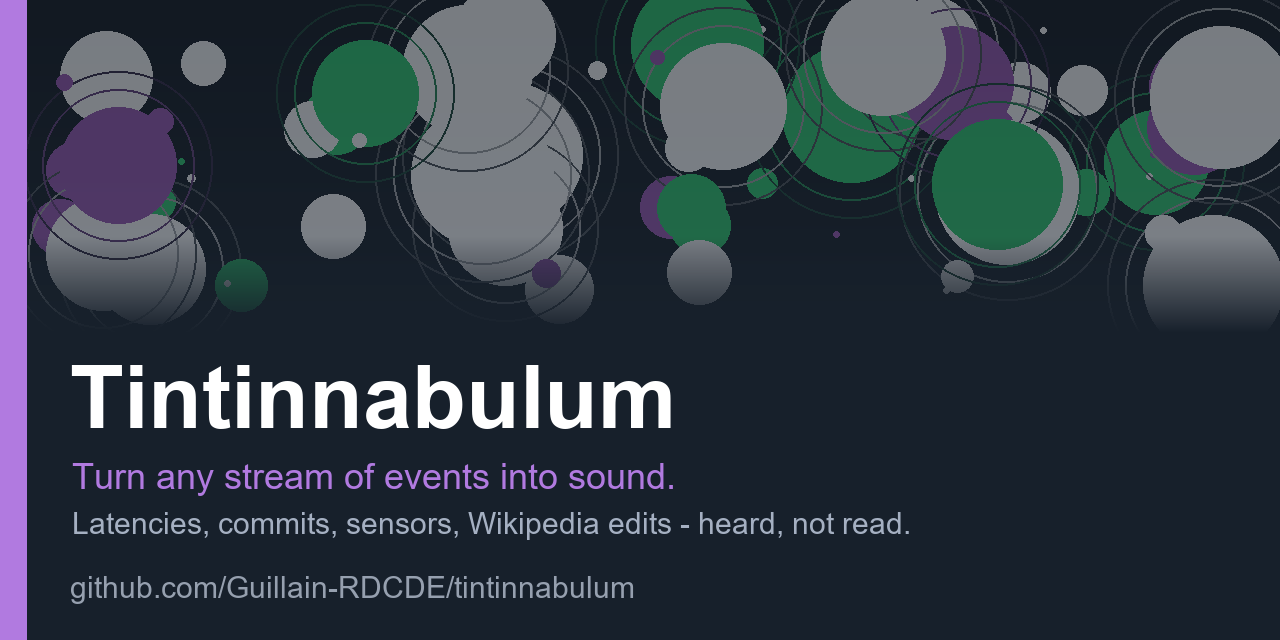
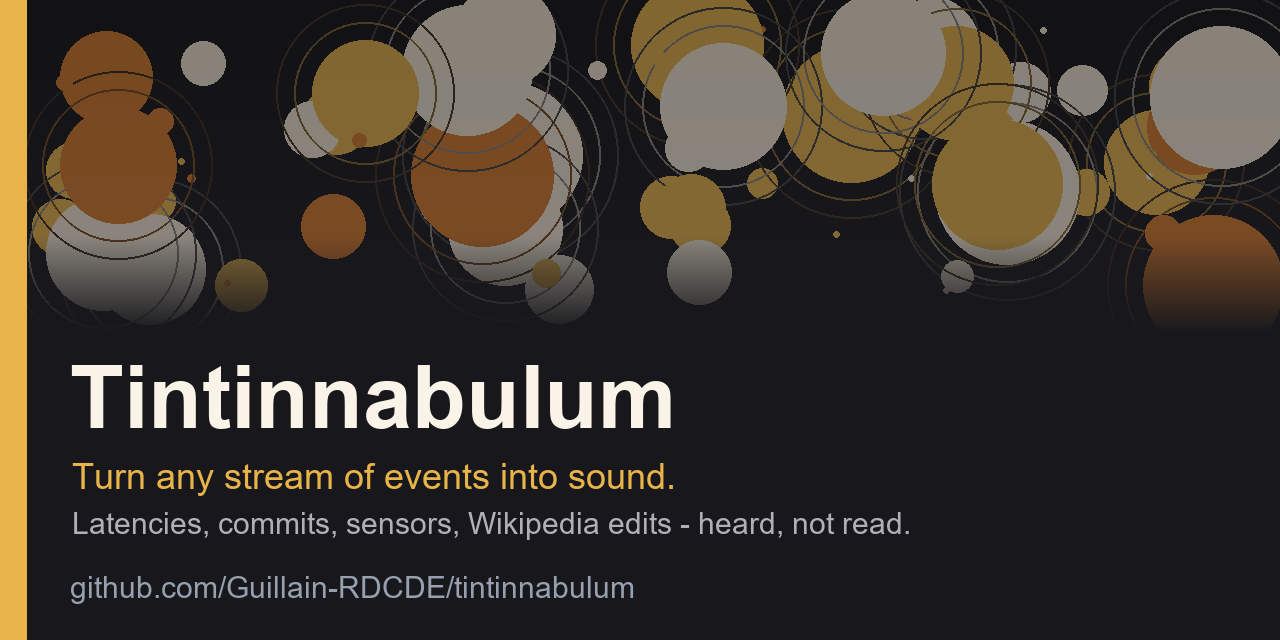
Correct the project name, restyle the preview, remove decorative emoji
- the sandbox header still read sonify, a leftover working name. Fixed
  there and in the server banner, the recorder filename prefix and the
  event typedef.
- social preview reworked: warm brass, copper and cream on neutral
  charcoal, replacing the violet and green. A brown ground was tried first
  and abandoned -- warm metals only read against a neutral grey.
- all documentation rewritten in a plain register with decorative emoji
  removed; section headings are now Getting started / Reference. The only
  remaining glyph is the selected-swatch checkmark, which is interface
  iconography rather than decoration.

diff --git a/src/audio/recorder-sink.js b/src/audio/recorder-sink.js
@@ -66,7 +66,8 @@ export class Recorder {
   async save(filename) {
     const blob = await this.stop();
     const ext = (this.mimeType.split('/')[1] || 'webm').split(';')[0];
-    const name = filename || `sonify-${new Date().toISOString().replace(/[:.]/g, '-')}.${ext}`;
+    const name =
+      filename || `tintinnabulum-${new Date().toISOString().replace(/[:.]/g, '-')}.${ext}`;
     const url = URL.createObjectURL(blob);
     const a = document.createElement('a');
     a.href = url;

diff --git a/src/core/event.js b/src/core/event.js
@@ -7,7 +7,7 @@
 let _auto = 0;
 
 /**
- * @typedef {Object} SonifyEvent
+ * @typedef {Object} SonificationEvent
  * @property {number}  magnitude  Absolute size of the event. Drives pitch and radius.
  * @property {-1|0|1}  polarity   Instrument selection: +1 bell, -1 pluck, 0 neutral.
  * @property {string}  id         Stable identity: seeds the on-screen position.

diff --git a/demo/index.html b/demo/index.html
@@ -54,13 +54,13 @@
 <body>
 
 <header>
-  <h1>sonify</h1>
+  <h1>Tintinnabulum</h1>
   <span class="stat" id="stat"></span>
 </header>
 
 <div id="stage">
   <canvas id="canvas"></canvas>
-  <div id="unlock"><span>♫ click to enable sound</span></div>
+  <div id="unlock"><span>Click to enable sound</span></div>
 </div>
 
 <div class="panel">

diff --git a/README.md b/README.md
@@ -5,59 +5,61 @@
 # Tintinnabulum
 
 **Turn any stream of events into sound.** Numbers you would normally read in a
-dashboard become bells and plucked strings — big things low, small things high —
-so you can *hear* what your data is doing while you look at something else.
+dashboard become bells and plucked strings — large values low, small values high
+— so you can hear what your data is doing while you look at something else.
 
-**[▶ Open the sandbox](https://guillain-rdcde.github.io/tintinnabulum/)** — no install, runs in your browser. · **[How it works](docs/HOW-IT-WORKS.md)** — the whole pipeline explained, beginner to expert. · **[The engine room ↓](#-pro--the-engine-room)**
+**[Open the sandbox](https://guillain-rdcde.github.io/tintinnabulum/)** — nothing
+to install, runs in your browser. · **[How it works](docs/HOW-IT-WORKS.md)** —
+the whole pipeline, explained from first principles. ·
+**[Reference](#reference)**
 
 > *tintinnabulum, -i, n.* — Latin for a small bell. The plural, *tintinnabuli*,
 > is the name Arvo Pärt gave to his bell-like compositional style.
 
 ---
 
-## 🟢 Beginner — "I just want to hear something"
+## Getting started
 
-**[Click here.](https://guillain-rdcde.github.io/tintinnabulum/)** Then click once
-anywhere on the page to allow sound, and press **Connect**.
+**[Open the sandbox.](https://guillain-rdcde.github.io/tintinnabulum/)** Click
+once anywhere on the page to allow sound, then press **Connect**.
 
 You are now listening to Wikipedia. Every circle is somebody editing an article,
-somewhere in the world, right now.
+somewhere in the world, at that moment.
 
-- 🔔 **A bell** — someone added text
-- 🎸 **A plucked string** — someone deleted text
-- **Low note** = a big edit · **high note** = a small one
-- 🟢 **Green circle** = an anonymous editor · 🟣 **purple** = a bot · ⚪ **white** = a logged-in person
-- Click any circle to open the article that made the sound
+- **A bell** means text was added. **A plucked string** means text was removed.
+- **A low note** is a large edit; **a high note** is a small one.
+- **Green** marks an anonymous editor, **purple** a bot, **white** a logged-in
+  contributor. *(Those are the default colours; there are nine palettes.)*
+- Clicking a circle opens the article that produced the sound.
 
-That's it. Leave it running in a background tab — it is quite pleasant.
+That is the whole idea. It is designed to be left running in a background tab.
 
-**Curious what's actually happening?** [**How it works**](docs/HOW-IT-WORKS.md)
-follows a single Wikipedia edit from the live feed to the note in your speakers,
-in plain English first and full detail afterwards.
+If you would rather not listen to Wikipedia, choose **Synthetic traffic** in the
+**Source** box for a steady stream of generated events. To hear your own data,
+see [Sending your own data](#sending-your-own-data) — it is one `curl` command.
 
-**Want to hear something other than Wikipedia?** In the **Source** box, pick
-*Synthetic traffic* for a steady stream of made-up events. To hear your *own*
-data, see [Feed it your own data](#feed-it-your-own-data) below — it is one
-`curl` command.
+For an explanation of what actually happens between the live feed and the note
+in your speakers, see **[How it works](docs/HOW-IT-WORKS.md)**, which covers it
+in plain language first and in full detail afterwards.
 
-### Things worth trying
+### Worth trying
 
-| Try this | What happens |
+| Setting | Effect |
 |---|---|
-| **Instruments → Synthesis** | The same events played by a synthesiser instead of recorded bells. No audio files involved at all. |
-| **Mapping → Scale → pentatonic** | Notes snap to a five-note scale. Suddenly it sounds composed rather than random. |
-| **Languages → `en,fr,de,ja`** | Four Wikipedias at once. Busier, denser, more musical. |
-| **Palette → any swatch** | Nine looks, from *Nocturne* to *Bronze* to *Daylight*. The circles already on screen recolour instantly, and your choice is remembered. |
-| **Instruments → ● Record** | Records what you are hearing to an audio file you can keep. |
-| **Untick "Big event = low note"** | Inverts the whole thing. Big edits become shrill. Worse! But instructive. |
+| **Instruments → Synthesis** | The same events played by a synthesiser rather than recorded bells. No audio files are involved. |
+| **Mapping → Scale → pentatonic** | Notes snap to a five-note scale, and the result sounds composed rather than arbitrary. |
+| **Languages → `en,fr,de,ja`** | Four Wikipedias at once: busier, denser, more musical. |
+| **Palette** | Nine looks, from *Nocturne* to *Bronze* to *Daylight*. Circles already on screen recolour immediately, and the choice is remembered. |
+| **Instruments → Record** | Captures what you are hearing to an audio file. |
+| **Untick "Big event = low note"** | Inverts the mapping. Large edits become shrill — worse, but instructive. |
 
 ---
 
-## 🔵 Pro — the engine room
+## Reference
 
 A dependency-free sonification engine. Anything reducible to
 **(magnitude, polarity, identity)** can be heard and seen: request latencies,
-git commits, CI builds, queue depths, sensor readings, Wikipedia edits.
+commits, build results, queue depths, sensor readings, Wikipedia edits.
 
 No build step, no bundler, no `npm install`. ES modules and `node:http`.
 
@@ -69,9 +71,9 @@ No build step, no bundler, no `npm install`. ES modules and `node:http`.
 |---|---|---|
 | `magnitude` | number | Size of the event. Drives pitch and radius. A negative value implies `polarity: -1`. |
 | `polarity` | `1` / `-1` / `0` | Instrument choice: bell, pluck, neutral. |
-| `id` | string | Stable identity. **Seeds the on-screen position**, so the same id always lands in the same spot — an article edited twice pulses in one place. |
+| `id` | string | Stable identity. Seeds the on-screen position, so the same id always lands in the same place — an article edited twice pulses in one spot. |
 | `category` | string | Colour and instrument override (`user`, `anon`, `bot`, `alert`, or your own). |
-| `accent` | boolean | Rare notable event: plays the swell, shows a banner, bypasses voice stealing. |
+| `accent` | boolean | Rare, notable event: plays the swell, shows a banner, bypasses voice stealing. |
 | `label` / `url` | string | Shown on hover; clicking the circle opens the url. |
 | `ts` | number | Epoch ms, defaults to now. |
 | `data` | any | Your original payload, passed through untouched. |
@@ -87,7 +89,7 @@ const son = new Sonifier({
   voices: { maxVoices: 16, maxPerSecond: 25 },
 });
 
-son.use(new CanvasSink('#canvas'));
+son.use(new CanvasSink('#canvas', { palette: 'bronze' }));
 await son.unlock();                   // must be called from a click handler
 son.connect(wikipedia({ langs: ['en', 'fr'] }));
 
@@ -98,18 +100,19 @@ son.emit({ magnitude: 512, id: 'anything', category: 'alert' });
 
 Most sonification code carries a constant tuned to one dataset, which makes it
 useless for any other. The default `adaptive` mapping instead ranks each
-magnitude against a rolling window of the last 500, so an unknown source finds
-its own range within seconds.
+magnitude against a rolling window of the last 500, so an unfamiliar source
+finds its own range within about sixteen events.
 
-The test suite demonstrates the difference: on latencies clustered between 40
+The test suite pins down the difference. Given latencies clustered between 40
 and 60 ms, a fixed logarithmic curve tuned for Wikipedia's byte counts collapses
-into **1 semitone**, while the adaptive mapping still spans the full **27**. Use
-`log` or `linear` with an explicit `domain` when you already know the scale.
+into **one semitone**, while the adaptive mapping still spans the full **27**.
+Use `log` or `linear` with an explicit `domain` when the range is known in
+advance.
 
 ### Voice allocation
 
-Under load, a note may **steal the weakest sounding voice** rather than being
-dropped in arrival order, so a burst of small events never masks the one big
+Under load, a note may steal the weakest sounding voice rather than being
+dropped in arrival order, so a burst of small events never masks the one large
 event inside it. `maxPerSecond` adds a token-bucket ceiling on top.
 
 ### Sources
@@ -119,15 +122,15 @@ event inside it. `maxPerSecond` adds a token-bucket ceiling on top.
 | `wikipedia({langs, backend})` | `'eventstreams'` (Wikimedia's own HTTPS SSE) or `'wikimon'` (adds `geo_ip`, `hashtags`, `mentions`) |
 | `sseSource({url, map})` | Any Server-Sent Events feed |
 | `websocketSource({url, map})` | Any WebSocket, with exponential-backoff reconnect |
-| `pollSource({url, interval, map})` | Any JSON endpoint, with id de-duplication |
+| `pollSource({url, interval, map})` | Any JSON endpoint, with de-duplication by id |
 | `ingestSource({url})` | The bundled ingest server |
 | `manualSource()` | Push events in by hand |
 | `randomSource({rate})` | Synthetic traffic, for tuning without a network |
 
-A source is any object with `{ name, start(emit), stop() }` — writing your own
+A source is any object with `{ name, start(emit), stop() }`, so writing your own
 takes a dozen lines.
 
-### Feed it your own data
+### Sending your own data
 
 Run the ingest server, which also serves the page:
 
@@ -137,54 +140,54 @@ node server/ingest.mjs           # http://localhost:8080/demo/
 
 ```
 POST /emit          {"magnitude": 1200, "id": "build-42"}     — or an array
-GET  /emit?magnitude=42&id=quick-test                          — curl-friendly
+GET  /emit?magnitude=42&id=quick-test                          — convenient from curl
 GET  /events[?replay=20]                                       — SSE fan-out
 GET  /stats
 ```
 
-Query parameters name the fields. A value starting with `$.` is a path into the
-posted body; anything else is a literal. That single rule is what lets any JSON
-be piped in without writing an adapter:
+Query parameters name the target fields. A value beginning with `$.` is a path
+into the posted body; anything else is a literal. That single rule is what
+allows arbitrary JSON to be piped in without writing an adapter:
 
 ```bash
-# sonify request latency straight from your own logs
+# request latency, straight from your own logs
 curl -X POST "localhost:8080/emit?magnitude=\$.duration_ms&id=\$.route&category=\$.level" \
      -H 'Content-Type: application/json' \
      -d '{"route":"/api/users","duration_ms":312,"level":"warn"}'
 
-# sonify a repository: one note per commit, pitched by lines changed
+# a repository's history: one note per commit, pitched by lines changed
 git log --format='%H' -n 200 | while read sha; do
   n=$(git show --numstat --format= "$sha" | awk '{s+=$1+$2} END {print s+0}')
   curl -s -o /dev/null "localhost:8080/emit?magnitude=$n&id=$sha"
 done
 ```
 
-Fan-out is SSE rather than WebSocket: the browser only ever consumes this
-stream, `EventSource` reconnects on its own, and SSE needs nothing beyond
-`node:http`.
+Fan-out uses Server-Sent Events rather than WebSocket: the browser only ever
+consumes this stream, `EventSource` reconnects on its own, and SSE requires
+nothing beyond `node:http`.
 
 ### Instruments
 
 Implement `load(ctx)` and `play(ctx, dest, {semitone, velocity})` and you have a
 new instrument.
 
-- `SampleInstrument` — plays sampled banks resampled through `playbackRate`, so
-  pitch is **continuous** rather than limited to the number of recorded notes.
-- `SynthInstrument` — FM and subtractive presets (`bell`, `glass`, `clang`,
-  `pluck`, `woody`, `blip`, `pad`). No audio files at all.
+- `SampleInstrument` plays recorded banks, resampled through `playbackRate`, so
+  pitch is continuous rather than limited to the number of recorded notes.
+- `SynthInstrument` needs no audio files: FM and subtractive presets (`bell`,
+  `glass`, `clang`, `pluck`, `woody`, `blip`, `pad`).
 
 `hatnoteKit()` and `synthKit()` return ready-made `{add, sub, accent}` sets and
-are interchangeable at runtime. The sample banks are resolved relative to the
-library itself, so the project runs from any mount point.
+are interchangeable at runtime. Sample banks resolve relative to the library
+itself, so the project runs from any mount point.
 
 ### Palettes
 
-Nine, selectable at runtime and shipped as plain data in
+Nine, selectable at runtime and stored as plain data in
 [`src/visual/palettes.js`](src/visual/palettes.js):
 
 | | | |
 |---|---|---|
-| **Nocturne** — slate blue, the original | **Bronze** — brass and copper | **Aurora** — mint and violet |
+| **Nocturne** — slate blue, the default | **Bronze** — brass and copper | **Aurora** — mint and violet |
 | **Ember** — banked fire | **Ultraviolet** — magenta and cyan | **Blueprint** — technical, calmest |
 | **Sakura** — blossom on plum | **Daylight** — ink on paper, for projectors | **Monochrome** — lightness only |
 
@@ -194,33 +197,34 @@ sink.setPalette('aurora');                    // circles already drawn recolour
 sink.setPalette({ anon: '#00ffcc' });         // or override individual roles
 ```
 
-Adding one is adding an entry to that file. The test suite holds them to
+Adding one means adding an entry to that file. The test suite holds them to
 measured standards rather than taste: label text must clear WCAG AA (4.5:1)
-against its background, circles must stay visible at their 50 % fill opacity,
+against its background, circles must remain visible at their 50 % fill opacity,
 and the categories must be perceptually distinct — **CIELAB ΔE ≥ 22**, not
 luminance contrast, because two colours can differ obviously to the eye while
 sharing a luminance band. *Monochrome* is the deliberate exception, held to a
-lightness floor instead, since it exists to be readable without colour vision at
-all.
+lightness floor instead, since its purpose is to remain readable without colour
+vision.
 
 ### Tests
 
 ```bash
-npm test
+npm test              # core logic and the ingest server
+npm run test:browser  # headless Chromium, if playwright-core is installed
 ```
 
-Core logic and the ingest server end to end over a real socket. The browser half
-— sample decoding, audio scheduling, canvas rendering — is covered separately by
-a headless Chromium run in [`test/browser.test.mjs`](test/browser.test.mjs).
+The browser suite verifies audio by rendering instruments through an
+`OfflineAudioContext` and measuring peak amplitude, so a silent instrument
+fails rather than passing quietly.
 
 ### Layout
 
 ```
 src/core/     event contract, adaptive mapper, voice allocator, Sonifier facade
-src/audio/    AudioContext + unlock, instruments, audio sink, recorder
-src/visual/   Canvas renderer
+src/audio/    AudioContext and unlock, instruments, audio sink, recorder
+src/visual/   Canvas renderer and palettes
 src/sources/  Wikipedia, SSE, WebSocket, poll, manual, random
-server/       zero-dependency ingest + static server
+server/       zero-dependency ingest and static server
 sounds/       sampled celesta, clavichord and string swells
 demo/         the sandbox page
 test/         core, server and browser checks

diff --git a/docs/HOW-IT-WORKS.md b/docs/HOW-IT-WORKS.md
@@ -4,16 +4,16 @@ Everything this project does, from the data going in to the sound and the
 picture coming out. The first half assumes nothing. The second half assumes you
 write code.
 
-- [🟢 In plain English](#-in-plain-english)
+- [In plain English](#in-plain-english)
 - [The whole pipeline in one picture](#the-whole-pipeline-in-one-picture)
-- [🔵 Stage by stage](#-stage-by-stage)
+- [Stage by stage](#stage-by-stage)
 - [Three worked examples, with real numbers](#three-worked-examples-with-real-numbers)
 - [What you get out](#what-you-get-out)
 - [Why it is built this way](#why-it-is-built-this-way)
 
 ---
 
-## 🟢 In plain English
+## In plain English
 
 ### The idea in one paragraph
 
@@ -140,13 +140,13 @@ That is a complete, working data source.
             │ play the note  │       │ ring + fade   │        │               │
             └───────┬───────┘        └───────┬───────┘        └───────┬───────┘
                     ▼                        ▼                        ▼
-                 🔊 sound              🖥 circles on a           💾 .webm you
-                                          dark canvas              can keep
+                    sound                circles on a            a .webm file
+                                          dark canvas             you can keep
 ```
 
 ---
 
-## 🔵 Stage by stage
+## Stage by stage
 
 ### 1. Input — what a source is
 
